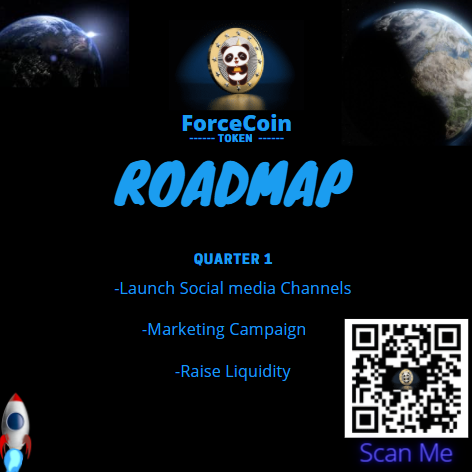
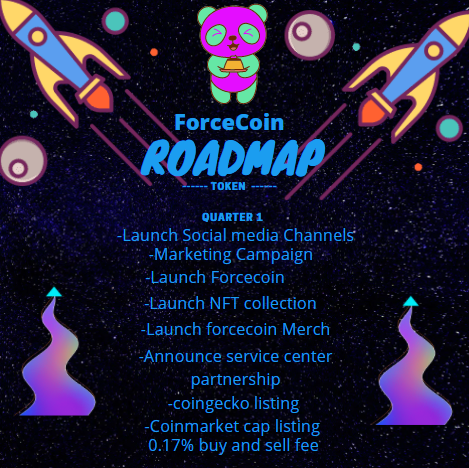
Add files via upload

diff --git a/index.html b/index.html
@@ -207,8 +207,10 @@
               
                   
               </script>
+              <br> 
                            
-             
+                           <img  class="shop-item-image" src="roadmap1.PNG" width="300" height="400"> 
+                           <br>  
 
                            <h7  style="color: lightblue;"> News: </h7> <br>
                            <h4  style="color: lightblue;"> Forcecoin will be launching its own NFT collection </h4>
